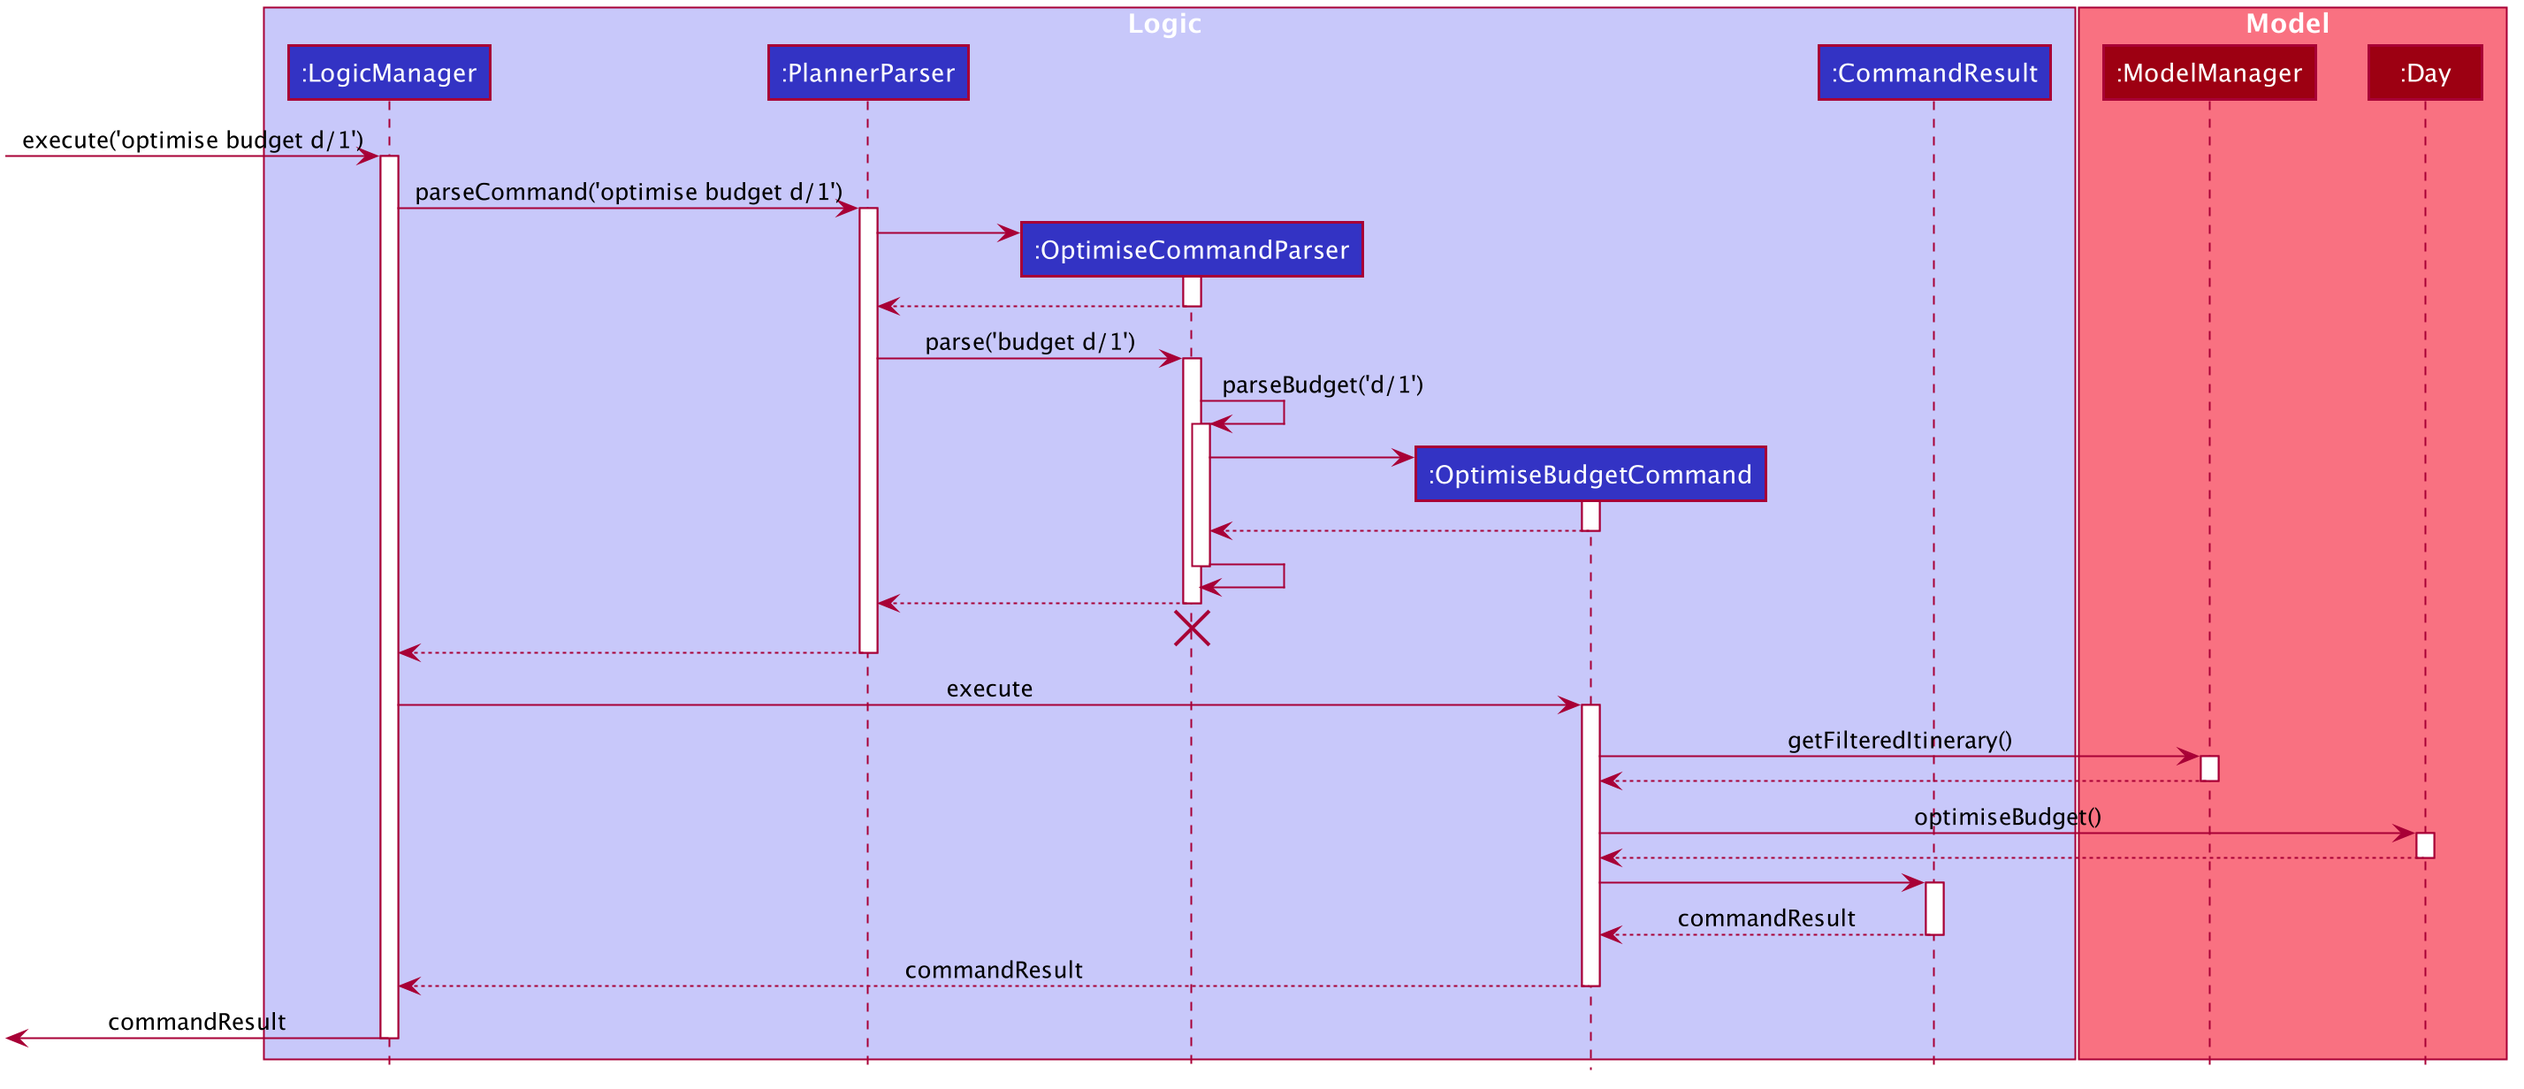
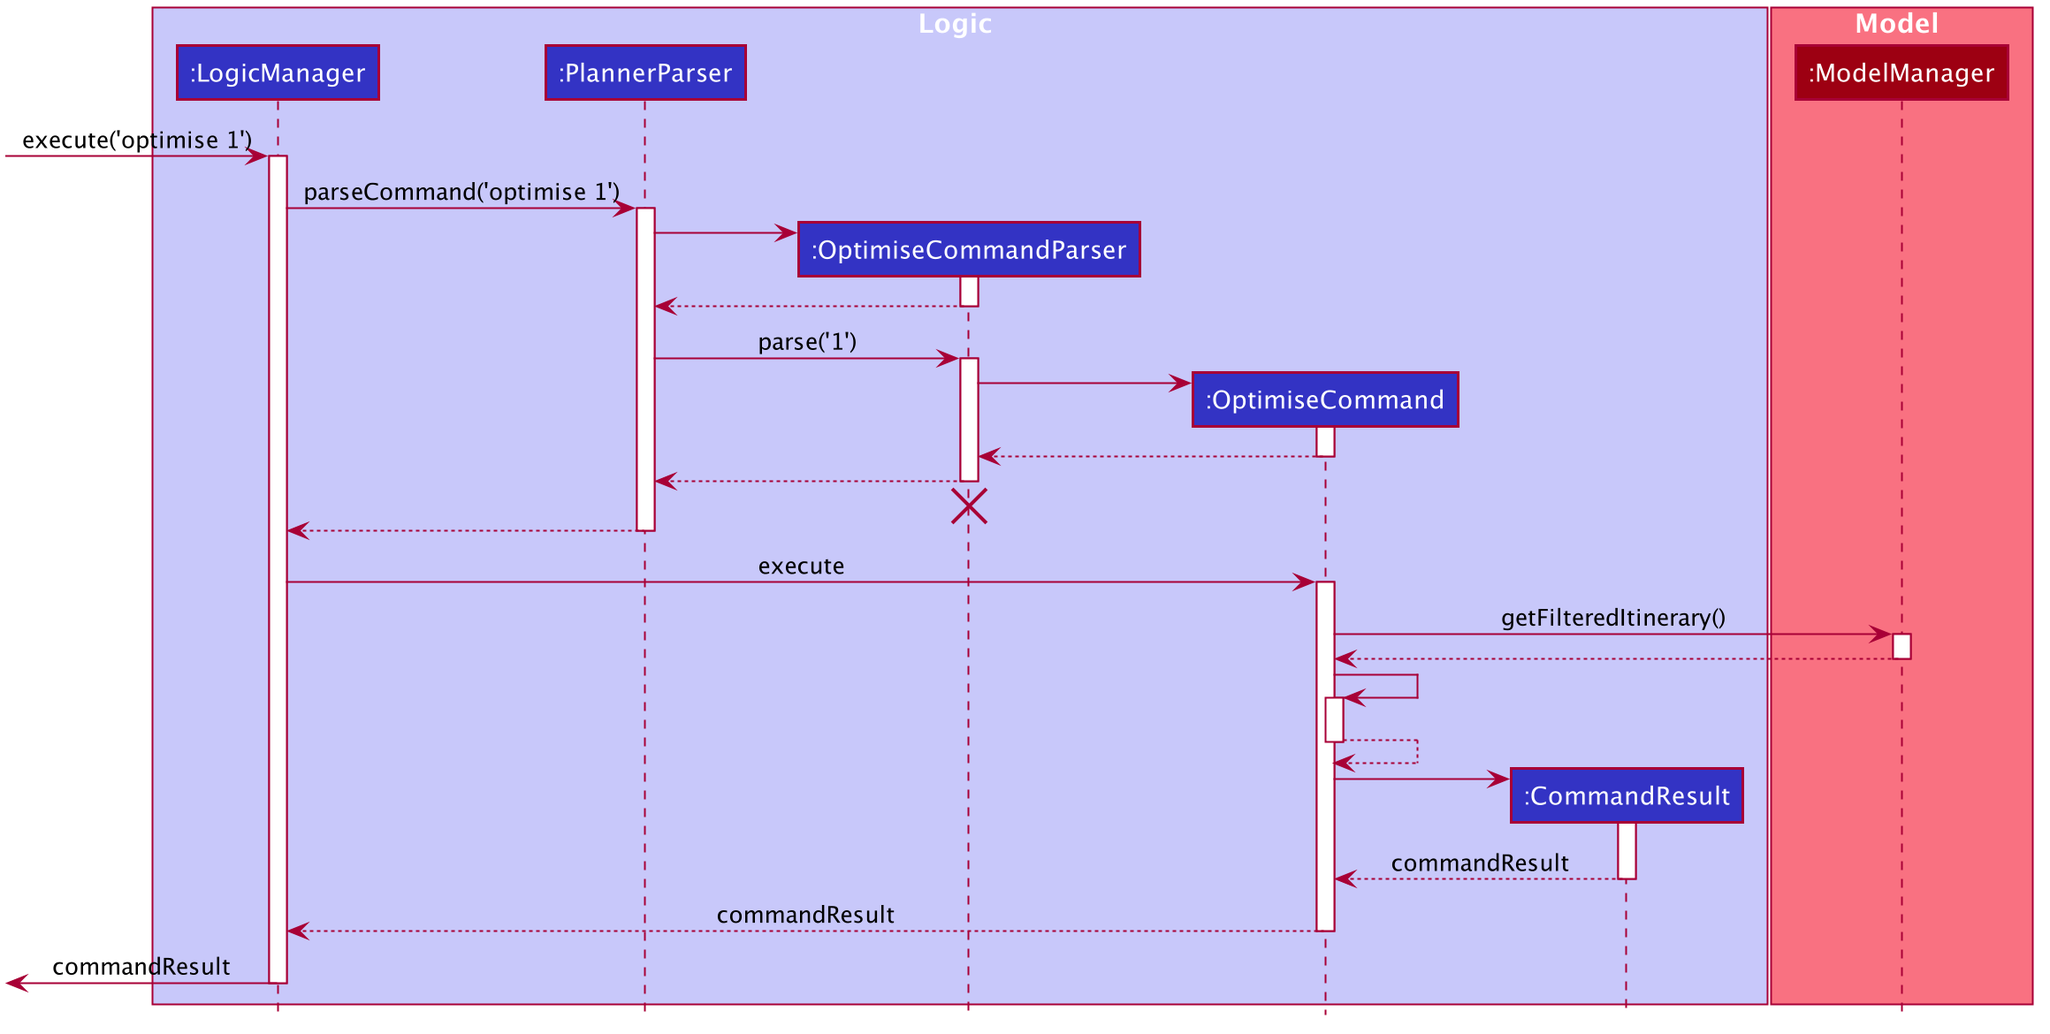
Rebuild pages at b7dd250c62095fe549a8399288649f3073f2300f

diff --git a/DeveloperGuide.html b/DeveloperGuide.html
@@ -23,12 +23,11 @@
 <li><a href="#implementation">3. Implementation</a>
 <ul class="sectlevel2">
 <li><a href="#proposed-undo-redo-feature">3.1. [Proposed] Undo/Redo feature</a></li>
-<li><a href="#proposed-data-encryption">3.2. [Proposed] Data Encryption</a></li>
-<li><a href="#proposed-schedule-optimisation">3.3. [Proposed] Schedule optimisation</a></li>
-<li><a href="#proposed-schedule-activity-feature">3.4. [Proposed] Schedule Activity feature</a></li>
-<li><a href="#logging">3.5. Logging</a></li>
-<li><a href="#Implementation-Configuration">3.6. Configuration</a></li>
-<li><a href="#timetable">3.7. Timetable</a></li>
+<li><a href="#schedule-optimisation">3.2. Schedule optimisation</a></li>
+<li><a href="#proposed-schedule-activity-feature">3.3. [Proposed] Schedule Activity feature</a></li>
+<li><a href="#logging">3.4. Logging</a></li>
+<li><a href="#Implementation-Configuration">3.5. Configuration</a></li>
+<li><a href="#timetable">3.6. Timetable</a></li>
 </ul>
 </li>
 <li><a href="#documentation">4. Documentation</a></li>
@@ -559,70 +558,27 @@ If the <code>currentStatePointer</code> is at index <code>addressBookStateList.s
 </div>
 </div>
 <div class="sect2">
-<h3 id="proposed-data-encryption"><a class="link" href="#proposed-data-encryption">3.2. [Proposed] Data Encryption</a></h3>
-<div class="paragraph">
-<p><em>{Explain here how the data encryption feature will be implemented}</em></p>
-</div>
-</div>
-<div class="sect2">
-<h3 id="proposed-schedule-optimisation"><a class="link" href="#proposed-schedule-optimisation">3.3. [Proposed] Schedule optimisation</a></h3>
+<h3 id="schedule-optimisation"><a class="link" href="#schedule-optimisation">3.2. Schedule optimisation</a></h3>
 <div class="sect3">
-<h4 id="proposed-implementation-2"><a class="link" href="#proposed-implementation-2">3.3.1. Proposed Implementation</a></h4>
+<h4 id="implementation-2"><a class="link" href="#implementation-2">3.2.1. Implementation</a></h4>
 <div class="paragraph">
-<p>The proposed schedule optimisation feature utilises <code>TimeTable</code> and allows the user to schedule multiple activities within the same time slot. The following command is supported:</p>
+<p>The schedule optimisation feature utilises <code>TimeTable</code> and allows the user to resolve any overlapping activities. Resulting in a schedule with the
+lowest overall cost and the most number of activities such that the user&#8217;s time is maximised. The following command is supported:</p>
 </div>
 <div class="ulist">
 <ul>
 <li>
-<p>optimise budget INDEX_OF_DAY&#8201;&#8212;&#8201;optimises and brings activities with the lowest cost into focus. This operation supports activities with or without a cost. Activities without a cost has a default cost of $0.00.</p>
+<p>optimise INDEX_OF_DAY&#8201;&#8212;&#8201;optimises and de-conflicts the schedule. This operation supports activities with or without
+a cost. Activities without a cost have a default cost of $0.00.</p>
 </li>
 </ul>
 </div>
 <div class="paragraph">
-<p>Given below is a sample usage of the proposed feature:</p>
+<p>Given below is a sample usage of the feature:</p>
 </div>
 <div class="paragraph">
-<p>Step 1. User adds an activity with a cost:</p>
-</div>
-<div class="ulist">
-<ul>
-<li>
-<p><code>add activity n/lunch a/KFC c/5.00</code></p>
-</li>
-</ul>
-</div>
-<div class="paragraph">
-<p>Step 2. User adds another activity without a cost:</p>
-</div>
-<div class="ulist">
-<ul>
-<li>
-<p><code>add activity n/go for a walk a/park</code></p>
-</li>
-</ul>
-</div>
-<div class="paragraph">
-<p>Step 3. User schedules the first activity into a day:</p>
-</div>
-<div class="ulist">
-<ul>
-<li>
-<p><code>schedule activity 1 st/1300 et/1400 d/1</code></p>
-</li>
-</ul>
-</div>
-<div class="paragraph">
-<p>Step 4. User schedules the second activity into the same day:</p>
-</div>
-<div class="ulist">
-<ul>
-<li>
-<p><code>schedule activity 2 st/1300 et/1400 d/1</code></p>
-</li>
-</ul>
-</div>
-<div class="paragraph">
-<p>Step 6. User executes <code>optimise budget</code> command. The activities in that day would be shown in a way such that the activities with the lowest costs are in focus.</p>
+<p>The scheduled activities in a day can be viewed as a Directed Acyclic Graph (DAG), where a path represents a possible schedule. When a user executes the <code>Optimise</code> command on a day with conflicting activities, a utility method creates an adjacency list.
+Another utility method then traverses the adjacency list to create all possible paths. The paths are then sorted to obtain the one with the lowest total cost and most number of activities (nodes).</p>
 </div>
 <div class="paragraph">
 <p>Shown below is a summary of the execution of the command.</p>
@@ -634,34 +590,65 @@ If the <code>currentStatePointer</code> is at index <code>addressBookStateList.s
 </div>
 </div>
 <div class="sect3">
-<h4 id="design-considerations-2"><a class="link" href="#design-considerations-2">3.3.2. Design considerations</a></h4>
+<h4 id="design-considerations-2"><a class="link" href="#design-considerations-2">3.2.2. Design considerations</a></h4>
 <div class="paragraph">
-<p>Aspect: How version comparison is executed:</p>
+<p>Aspect: Execution</p>
 </div>
 <div class="ulist">
 <ul>
 <li>
-<p>Alternative 1(current choice): user overload each time slot.</p>
+<p>Alternative 1 (current): Find all paths</p>
 <div class="ulist">
 <ul>
 <li>
-<p>Pros: User can save time by overloading a single day&#8217;s schedule.</p>
+<p>Pros:</p>
+<div class="ulist">
+<ul>
+<li>
+<p>Able to compare both budget and number of activities.</p>
 </li>
 <li>
-<p>Cons: UI might get very cluttered when a single time slot has too many activities.</p>
+<p>Can reuse to find different methods of optimisation besides cost, by replacing comparator.</p>
 </li>
 </ul>
 </div>
 </li>
 <li>
-<p>Alternative 2: user create copies of each day and choose which they prefer.</p>
+<p>Cons:</p>
 <div class="ulist">
 <ul>
 <li>
-<p>Pros: UI is neater, each day would not look too crammed.</p>
+<p>Slow runtime.</p>
+</li>
+</ul>
+</div>
+</li>
+</ul>
+</div>
 </li>
 <li>
-<p>Cons: May have a lot of permutations which is tedious for user to optimise.</p>
+<p>Alternative 2: Find shortest path</p>
+<div class="ulist">
+<ul>
+<li>
+<p>Pros:</p>
+<div class="ulist">
+<ul>
+<li>
+<p>Faster runtime.</p>
+</li>
+</ul>
+</div>
+</li>
+<li>
+<p>Cons:</p>
+<div class="ulist">
+<ul>
+<li>
+<p>Less flexible optimisation.</p>
+</li>
+</ul>
+</div>
 </li>
 </ul>
 </div>
@@ -671,7 +658,7 @@ If the <code>currentStatePointer</code> is at index <code>addressBookStateList.s
 </div>
 </div>
 <div class="sect2">
-<h3 id="proposed-schedule-activity-feature"><a class="link" href="#proposed-schedule-activity-feature">3.4. [Proposed] Schedule Activity feature</a></h3>
+<h3 id="proposed-schedule-activity-feature"><a class="link" href="#proposed-schedule-activity-feature">3.3. [Proposed] Schedule Activity feature</a></h3>
 <div class="paragraph">
 <p><strong><em>Plan²travel</em></strong> allows user to schedule an activity from the activity list to a specified time of a day.
 This is accomplished by executing the Schedule Command using <code>activity index</code>, <code>day index</code>, <code>start time</code> and <code>end time</code> of the activity.</p>
@@ -680,7 +667,7 @@ This is accomplished by executing the Schedule Command using <code>activity inde
 <p>Eg. <code>schedule activity ACTIVITY_INDEX st/START_TIME et/END_TIME d/DAY_INDEX</code></p>
 </div>
 <div class="sect3">
-<h4 id="current-implementation"><a class="link" href="#current-implementation">3.4.1. Current Implementation</a></h4>
+<h4 id="current-implementation"><a class="link" href="#current-implementation">3.3.1. Current Implementation</a></h4>
 <div class="paragraph">
 <p>The keywords from the command given by the user is parsed using <code>ScheduleCommandParser</code> which converts the string variable of start time and end time into a LocalTime format and wraps activity index and day index  with an Index class.
 These are then passed to the <code>ScheduleActivityCommand</code> for execution later on.</p>
@@ -734,7 +721,7 @@ and target <code>Day</code> from list of days.</p>
 </div>
 </div>
 <div class="sect3">
-<h4 id="design-considerations-3"><a class="link" href="#design-considerations-3">3.4.2. Design Considerations</a></h4>
+<h4 id="design-considerations-3"><a class="link" href="#design-considerations-3">3.3.2. Design Considerations</a></h4>
 <div class="sect4">
 <h5 id="aspect-update-activities-for-that-particular-day"><a class="link" href="#aspect-update-activities-for-that-particular-day">Aspect: Update activities for that particular day</a></h5>
 <div class="ulist">
@@ -771,14 +758,14 @@ and target <code>Day</code> from list of days.</p>
 </div>
 </div>
 <div class="sect2">
-<h3 id="logging"><a class="link" href="#logging">3.5. Logging</a></h3>
+<h3 id="logging"><a class="link" href="#logging">3.4. Logging</a></h3>
 <div class="paragraph">
 <p>We are using <code>java.util.logging</code> package for logging. The <code>LogsCenter</code> class is used to manage the logging levels and logging destinations.</p>
 </div>
 <div class="ulist">
 <ul>
 <li>
-<p>The logging level can be controlled using the <code>logLevel</code> setting in the configuration file (See <a href="#Implementation-Configuration">Section 3.6, &#8220;Configuration&#8221;</a>)</p>
+<p>The logging level can be controlled using the <code>logLevel</code> setting in the configuration file (See <a href="#Implementation-Configuration">Section 3.5, &#8220;Configuration&#8221;</a>)</p>
 </li>
 <li>
 <p>The <code>Logger</code> for a class can be obtained using <code>LogsCenter.getLogger(Class)</code> which will log messages according to the specified logging level</p>
@@ -809,15 +796,15 @@ and target <code>Day</code> from list of days.</p>
 </div>
 </div>
 <div class="sect2">
-<h3 id="Implementation-Configuration"><a class="link" href="#Implementation-Configuration">3.6. Configuration</a></h3>
+<h3 id="Implementation-Configuration"><a class="link" href="#Implementation-Configuration">3.5. Configuration</a></h3>
 <div class="paragraph">
 <p>Certain properties of the application can be controlled (e.g user prefs file location, logging level) through the configuration file (default: <code>config.json</code>).</p>
 </div>
 </div>
 <div class="sect2">
-<h3 id="timetable"><a class="link" href="#timetable">3.7. Timetable</a></h3>
+<h3 id="timetable"><a class="link" href="#timetable">3.6. Timetable</a></h3>
 <div class="sect3">
-<h4 id="current-implementation-2"><a class="link" href="#current-implementation-2">3.7.1. Current Implementation</a></h4>
+<h4 id="current-implementation-2"><a class="link" href="#current-implementation-2">3.6.1. Current Implementation</a></h4>
 <div class="paragraph">
 <p>Internally, Timetable is a TreeSet of ActivityWithTime. This allows fast access of ActivityWithTime stored in Timetable as well as giving Timetable the flexibility to accept Activities that start and end at any time instead of fixed intervals (e.g. 30 minute intervals).</p>
 </div>
@@ -826,7 +813,7 @@ and target <code>Day</code> from list of days.</p>
 </div>
 </div>
 <div class="sect3">
-<h4 id="design-considerations-4"><a class="link" href="#design-considerations-4">3.7.2. Design considerations</a></h4>
+<h4 id="design-considerations-4"><a class="link" href="#design-considerations-4">3.6.2. Design considerations</a></h4>
 <div class="ulist">
 <ul>
 <li>
@@ -1443,4 +1430,4 @@ Expected: Similar to previous.</p>
 </div>
 </div>
 </div>
-</div></div><div id="footer"><div class="container"><div id="footer-text">Last updated 2019-11-06 10:34:21 UTC</div></div></div></body></html>
+</div></div><div id="footer"><div class="container"><div id="footer-text">Last updated 2019-11-06 10:51:23 UTC</div></div></div></body></html>

diff --git a/team/1nefootstep.html b/team/1nefootstep.html
@@ -365,12 +365,6 @@ If the <code>currentStatePointer</code> is at index <code>addressBookStateList.s
 </div>
 </div>
 </div>
-<div class="sect2">
-<h3 id="proposed-data-encryption"><a class="link" href="#proposed-data-encryption">[Proposed] Data Encryption</a></h3>
-<div class="paragraph">
-<p><em>{Explain here how the data encryption feature will be implemented}</em></p>
-</div>
-</div>
 </div>
 </div>
 <div class="sect1">
@@ -381,4 +375,4 @@ If the <code>currentStatePointer</code> is at index <code>addressBookStateList.s
 <p><em>{Optionally, you may include other projects in your portfolio.}</em></p>
 </div>
 </div>
-</div></div><div id="footer"><div class="container"><div id="footer-text">Last updated 2019-11-06 10:34:21 UTC</div></div></div></body></html>
+</div></div><div id="footer"><div class="container"><div id="footer-text">Last updated 2019-11-06 10:51:23 UTC</div></div></div></body></html>

diff --git a/team/KxxMxxx.html b/team/KxxMxxx.html
@@ -365,12 +365,6 @@ If the <code>currentStatePointer</code> is at index <code>addressBookStateList.s
 </div>
 </div>
 </div>
-<div class="sect2">
-<h3 id="proposed-data-encryption"><a class="link" href="#proposed-data-encryption">[Proposed] Data Encryption</a></h3>
-<div class="paragraph">
-<p><em>{Explain here how the data encryption feature will be implemented}</em></p>
-</div>
-</div>
 </div>
 </div>
 <div class="sect1">
@@ -381,4 +375,4 @@ If the <code>currentStatePointer</code> is at index <code>addressBookStateList.s
 <p><em>{Optionally, you may include other projects in your portfolio.}</em></p>
 </div>
 </div>
-</div></div><div id="footer"><div class="container"><div id="footer-text">Last updated 2019-11-06 10:34:21 UTC</div></div></div></body></html>
+</div></div><div id="footer"><div class="container"><div id="footer-text">Last updated 2019-11-06 10:51:23 UTC</div></div></div></body></html>

diff --git a/team/OneArmyj.html b/team/OneArmyj.html
@@ -365,12 +365,6 @@ If the <code>currentStatePointer</code> is at index <code>addressBookStateList.s
 </div>
 </div>
 </div>
-<div class="sect2">
-<h3 id="proposed-data-encryption"><a class="link" href="#proposed-data-encryption">[Proposed] Data Encryption</a></h3>
-<div class="paragraph">
-<p><em>{Explain here how the data encryption feature will be implemented}</em></p>
-</div>
-</div>
 </div>
 </div>
 <div class="sect1">
@@ -381,4 +375,4 @@ If the <code>currentStatePointer</code> is at index <code>addressBookStateList.s
 <p><em>{Optionally, you may include other projects in your portfolio.}</em></p>
 </div>
 </div>
-</div></div><div id="footer"><div class="container"><div id="footer-text">Last updated 2019-11-06 10:34:21 UTC</div></div></div></body></html>
+</div></div><div id="footer"><div class="container"><div id="footer-text">Last updated 2019-11-06 10:51:23 UTC</div></div></div></body></html>

diff --git a/team/ernestyyh.html b/team/ernestyyh.html
@@ -365,12 +365,6 @@ If the <code>currentStatePointer</code> is at index <code>addressBookStateList.s
 </div>
 </div>
 </div>
-<div class="sect2">
-<h3 id="proposed-data-encryption"><a class="link" href="#proposed-data-encryption">[Proposed] Data Encryption</a></h3>
-<div class="paragraph">
-<p><em>{Explain here how the data encryption feature will be implemented}</em></p>
-</div>
-</div>
 </div>
 </div>
 <div class="sect1">
@@ -381,4 +375,4 @@ If the <code>currentStatePointer</code> is at index <code>addressBookStateList.s
 <p><em>{Optionally, you may include other projects in your portfolio.}</em></p>
 </div>
 </div>
-</div></div><div id="footer"><div class="container"><div id="footer-text">Last updated 2019-11-06 10:34:21 UTC</div></div></div></body></html>
+</div></div><div id="footer"><div class="container"><div id="footer-text">Last updated 2019-11-06 10:51:23 UTC</div></div></div></body></html>

diff --git a/team/oscarsu97.html b/team/oscarsu97.html
@@ -365,12 +365,6 @@ If the <code>currentStatePointer</code> is at index <code>addressBookStateList.s
 </div>
 </div>
 </div>
-<div class="sect2">
-<h3 id="proposed-data-encryption"><a class="link" href="#proposed-data-encryption">[Proposed] Data Encryption</a></h3>
-<div class="paragraph">
-<p><em>{Explain here how the data encryption feature will be implemented}</em></p>
-</div>
-</div>
 </div>
 </div>
 <div class="sect1">
@@ -381,4 +375,4 @@ If the <code>currentStatePointer</code> is at index <code>addressBookStateList.s
 <p><em>{Optionally, you may include other projects in your portfolio.}</em></p>
 </div>
 </div>
-</div></div><div id="footer"><div class="container"><div id="footer-text">Last updated 2019-11-06 10:34:21 UTC</div></div></div></body></html>
+</div></div><div id="footer"><div class="container"><div id="footer-text">Last updated 2019-11-06 10:51:23 UTC</div></div></div></body></html>

diff --git a/tutorials/RemovingFields.html b/tutorials/RemovingFields.html
@@ -175,4 +175,4 @@ While keeping the <code>address</code> field in the json files does not cause th
 <p>You can go through each individual <code>json</code> file and manually remove the <code>address</code> field.</p>
 </div>
 </div>
-</div></div><div id="footer"><div class="container"><div id="footer-text">Last updated 2019-11-06 10:34:21 UTC</div></div></div></body></html>
+</div></div><div id="footer"><div class="container"><div id="footer-text">Last updated 2019-11-06 10:51:23 UTC</div></div></div></body></html>

diff --git a/Testing.html b/Testing.html
@@ -90,4 +90,4 @@ e.g. <code>seedu.planner.logic.LogicManagerTest</code></p>
 <div class="title">Figure 1. <code>Accessibility</code> permission is granted to <code>IntelliJ IDEA</code></div>
 </div>
 </div>
-</div></div><div id="footer"><div class="container"><div id="footer-text">Last updated 2019-11-06 10:34:21 UTC</div></div></div></body></html>
+</div></div><div id="footer"><div class="container"><div id="footer-text">Last updated 2019-11-06 10:51:23 UTC</div></div></div></body></html>

diff --git a/tutorials/AddRemark.html b/tutorials/AddRemark.html
@@ -616,4 +616,4 @@ In this case, <code>CommandTestUtil#assertCommandSuccess</code> is the best fit 
 <p>This concludes the tutorial for adding a new <code>Command</code> to AddressBook.</p>
 </div>
 </div>
-</div></div><div id="footer"><div class="container"><div id="footer-text">Last updated 2019-11-06 10:34:21 UTC</div></div></div></body></html>
+</div></div><div id="footer"><div class="container"><div id="footer-text">Last updated 2019-11-06 10:51:23 UTC</div></div></div></body></html>

diff --git a/UserGuide.html b/UserGuide.html
@@ -1089,4 +1089,4 @@ e.g. <code>autoschedule t/Dining 1000 t/Attraction 1200 n/Disneyland 1400 t/Dini
 </ul>
 </div>
 </div>
-</div></div><div id="footer"><div class="container"><div id="footer-text">Last updated 2019-11-06 10:34:21 UTC</div></div></div></body></html>
+</div></div><div id="footer"><div class="container"><div id="footer-text">Last updated 2019-11-06 10:51:23 UTC</div></div></div></body></html>

diff --git a/ContactUs.html b/ContactUs.html
@@ -12,4 +12,4 @@
 <p><strong>Email us</strong> : You can also reach us at <code>e0322886@u.nus.edu</code></p>
 </li>
 </ul>
-</div></div><div id="footer"><div class="container"><div id="footer-text">Last updated 2019-11-06 10:34:21 UTC</div></div></div></body></html>
+</div></div><div id="footer"><div class="container"><div id="footer-text">Last updated 2019-11-06 10:51:23 UTC</div></div></div></body></html>

diff --git a/LearningOutcomes.html b/LearningOutcomes.html
@@ -475,4 +475,4 @@ of storages, but different number of storages (e.g. save to both a text file and
 </div>
 </div>
 </div>
-</div></div><div id="footer"><div class="container"><div id="footer-text">Last updated 2019-11-06 10:34:21 UTC</div></div></div></body></html>
+</div></div><div id="footer"><div class="container"><div id="footer-text">Last updated 2019-11-06 10:51:23 UTC</div></div></div></body></html>
